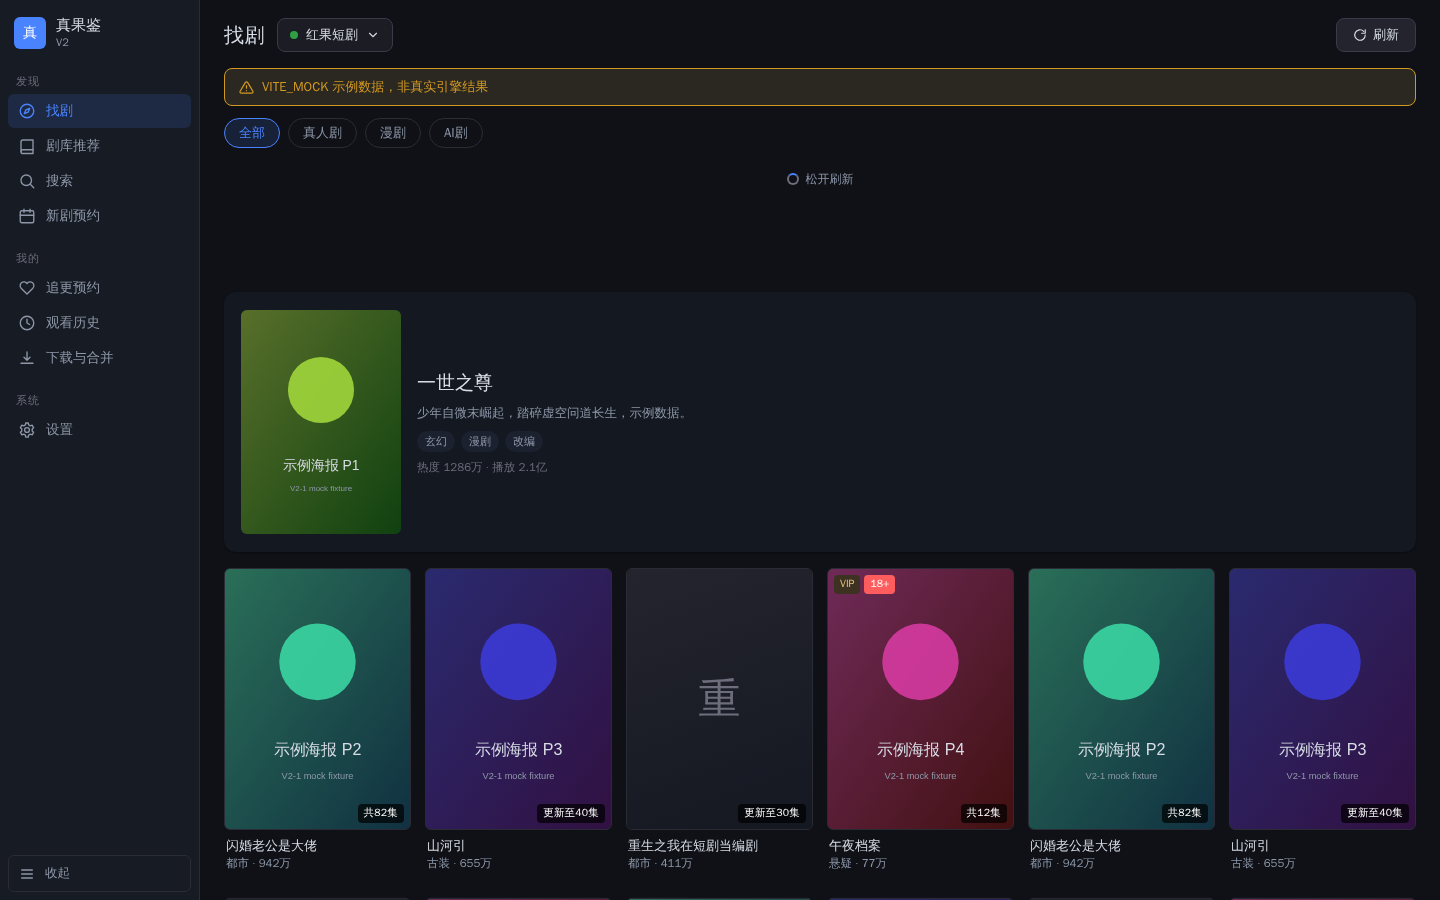
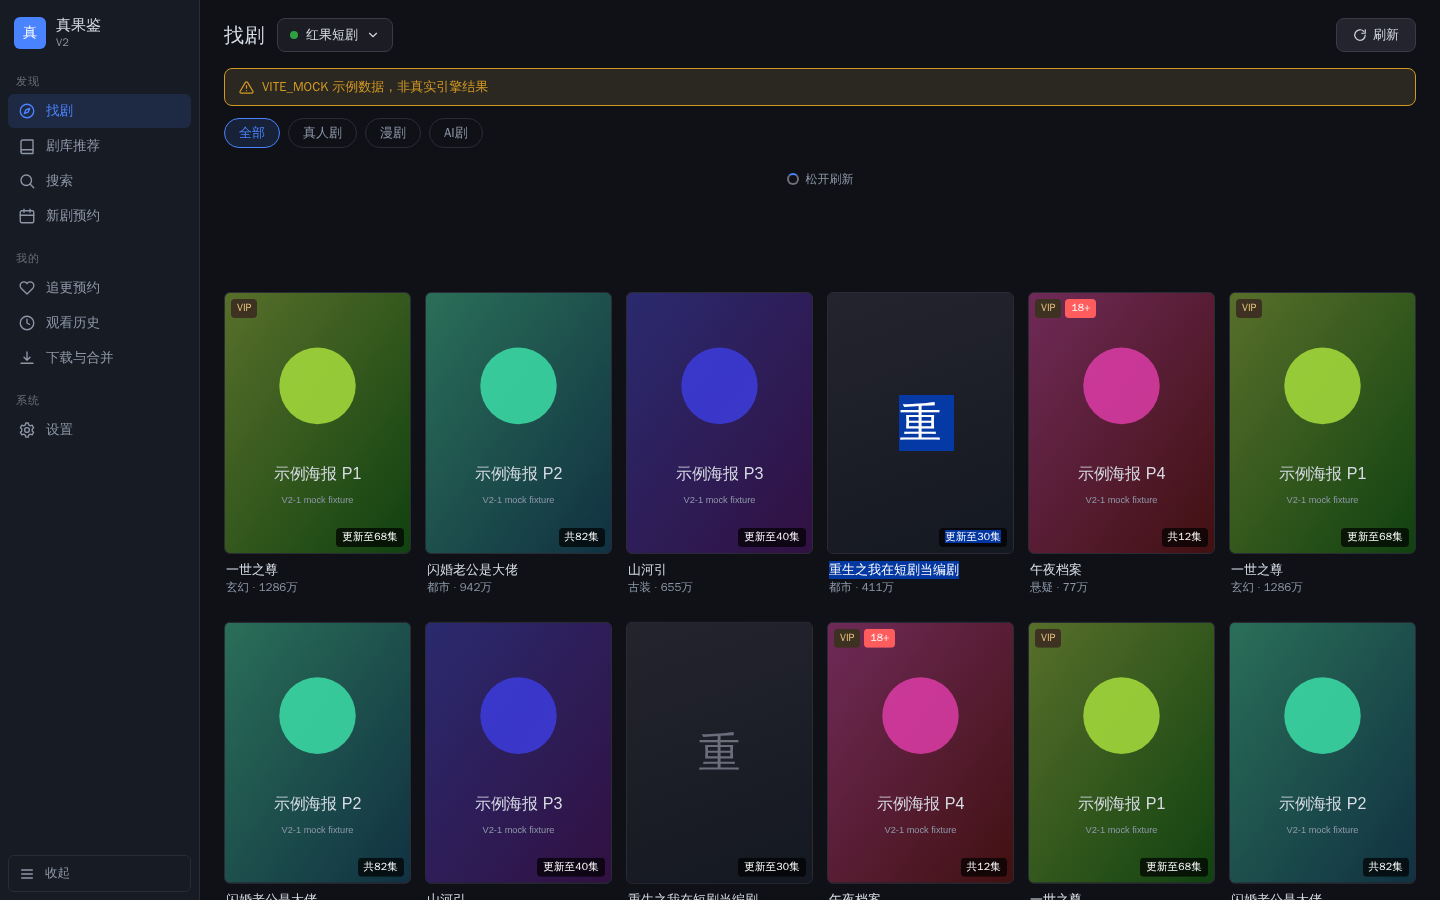
feat(client-v2): 移除找剧页首屏大卡以让出浏览空间
- 用户真机反馈 hero 占位过大，整块下线：墙面从第一部直接铺满，items[0] 不再被摘出
- 保留下拉刷新与集数徽标；验证脚本断言改为无 hero、首卡即列表首位
- HeroCard 组件与页面接线一并删除，虚拟滚动的 hero 偏移逻辑自然退役

diff --git a/client-v2/frontend/src/views/DiscoverView.vue b/client-v2/frontend/src/views/DiscoverView.vue
@@ -1,10 +1,10 @@
 <script setup lang="ts">
-/* Discover —— 找剧：SourceSwitch + 分类 chips + 首屏 hero 大卡 + 虚拟滚动海报墙（catalog 分页，lane=discover）
+/* Discover —— 找剧：SourceSwitch + 分类 chips + 虚拟滚动海报墙（catalog 分页，lane=discover）
    分类来源：browseFilters(groups[key=category])；默认构建无 overlay → 兜底 hongguo 三分类
    （值取自 guoapp-src core/provider_hongguo_catalog.go hongguoAppGenres）。
-   v1 质感对齐：hero 大卡（browse_panel.py:388-394 + poster_wall._WallHero）、下拉刷新手势
-   （browse_panel.py:151 set_refresh_enabled/refreshRequested 的手势版，复用既有 loadFirst(force)）。 */
-import { computed, onBeforeUnmount, onMounted, ref, watch } from 'vue'
+   v1 质感对齐：下拉刷新手势（browse_panel.py:151 set_refresh_enabled/refreshRequested 的
+   手势版，复用既有 loadFirst(force)）。首屏 hero 大卡已按用户反馈移除（占位过大）。 */
+import { onBeforeUnmount, onMounted, ref, watch } from 'vue'
 import { useRouter } from 'vue-router'
 import { useAppStore } from '@/stores/app'
 import { api, DEGRADED, MOCK_MODE } from '@/services/api'
@@ -14,7 +14,6 @@ import { t, tf } from '@/services/i18n'
 import { coverDiagnosticText, coverDiagnostics, onCoverDiagnostics, type CoverDiagnostics } from '@/services/covers'
 import SourceSwitch from '@/components/SourceSwitch.vue'
 import PosterGrid from '@/components/PosterGrid.vue'
-import HeroCard from '@/components/HeroCard.vue'
 
 interface Chip {
   id: string
@@ -93,45 +92,6 @@ const FALLBACK_CHIPS: Chip[] = [
 // 红果 genre 体裁组里的合法芯片 id（其余行如主题/时间不进芯片行）。
 const GENRE_TAB_IDS = new Set(['', 'short_play', 'comic_series', 'ai_series'])
 
-/* ---- hero 大卡（v1 browse_panel.py:388-394：首个分类且 items 非空 → items[0] 上墙剔除、其余进网格） ----
-   - 仅首个分类（chips[0]，兜底即「全部」）出 hero，与 v1 _is_first_tab 同口径；
-     分类页签切走后 v1 也不出 hero
-   - 条数 <2 不出：只有 1 条时 v1 的墙是空的（items[1:]），这里把这一条留作普通卡片，
-     避免「一张大卡压一片空墙」
-   - 去重：网格剔掉 hero 本体——按 id 且按标题剔（翻页同推荐位会重复同标题，
-     v1 真机反馈过「同一部剧出现两次」正是没剔的后果）
-   - 矮窗隐藏：v1 HERO_MIN_H=140 以下让位给墙；这里等价口径 = 网格可视高 < hero 260 + 一行 200 */
-const HERO_H = 260
-const HERO_MIN_ROW = 200
-const gridWrap = ref<HTMLElement | null>(null)
-const heroFits = ref(true)
-
-const isFirstChip = computed(() => activeChip.value === (chips.value[0]?.id ?? ''))
-const heroDrama = computed<Drama | null>(() => {
-  if (!heroFits.value || !isFirstChip.value) return null
-  if (items.value.length < 2) return null
-  return items.value[0]
-})
-const gridItems = computed<Drama[]>(() => {
-  const hero = heroDrama.value
-  if (!hero) return items.value
-  return items.value.filter((d) => d.id !== hero.id && d.title !== hero.title)
-})
-
-function measureHeroFits() {
-  const el = gridWrap.value
-  if (!el) return
-  const h = el.clientHeight
-  if (h > 0) heroFits.value = h >= HERO_H + HERO_MIN_ROW
-}
-// gridWrap 在 v-else 分支里，出现/重建时重新挂观察（RO 首次 observe 即回调，初值不用另测）
-let gridRo: ResizeObserver | null = null
-watch(gridWrap, (el) => {
-  gridRo?.disconnect()
-  gridRo = el ? new ResizeObserver(() => measureHeroFits()) : null
-  if (el && gridRo) gridRo.observe(el)
-  measureHeroFits()
-})
 
 /* ---- mock 验证钩子（沿用 covers.ts:131-136 __zgjCoverFault 的 window 惯例，仅 MOCK_MODE 挂载） ----
    - __zgjDiscover.refreshes：force 刷新次数（下拉手势断言）
@@ -286,8 +246,6 @@ onMounted(async () => {
 onBeforeUnmount(() => {
   unsubCoverDiag?.()
   unsubCoverDiag = undefined
-  gridRo?.disconnect()
-  gridRo = null
 })
 </script>
 
@@ -351,21 +309,16 @@ onBeforeUnmount(() => {
     <div>{{ error }}</div>
     <button class="btn" @click="loadFirst(true)">重试</button>
   </div>
-  <div v-else ref="gridWrap" class="grid-wrap">
+  <div v-else class="grid-wrap">
     <PosterGrid
-      :items="gridItems"
+      :items="items"
       :loading="loading"
       :loading-more="loadingMore"
       refreshable
-      :show-hero="!!heroDrama"
       @load-more="loadMore"
       @refresh="onPullRefresh"
       @select="selectDrama"
-    >
-      <template v-if="heroDrama" #hero>
-        <HeroCard :drama="heroDrama" @select="selectDrama" />
-      </template>
-    </PosterGrid>
+    />
   </div>
 
   <div v-if="toast" class="toast">{{ toast }}</div>
@@ -401,7 +354,7 @@ onBeforeUnmount(() => {
 .state-block {
   flex: 1;
 }
-/* 网格包装：给 .pg-scroller 一个确定高度的父级，同时是 hero「矮窗隐藏」的测量对象 */
+/* 网格包装：给 .pg-scroller 一个确定高度的父级 */
 .grid-wrap {
   flex: 1;
   min-height: 0;

diff --git a/client-v2/frontend/verification/discover_hero_verify.py b/client-v2/frontend/verification/discover_hero_verify.py
@@ -1,16 +1,15 @@
 #!/usr/bin/env python3
 # -*- coding: utf-8 -*-
-"""discover_hero_verify —— 发现页（找剧）v1 质感对齐三项的 mock 端到端验收。
+"""discover_hero_verify —— 发现页（找剧）mock 端到端验收（hero 大卡已按用户反馈移除）。
 
-对齐的 v1 语义：
-  - hero 大卡：browse_panel.py:388-394（首个分类 items[0] 上墙剔除、其余进网格）
-                + poster_wall.py:307-427 _WallHero（高 260、常态不描边、hover accent、点击进详情）
+覆盖语义：
+  - 无 hero：墙面从 items[0] 直接开始（v1 _WallHero 对应物已下线，用户嫌占位过大）
   - 下拉刷新：browse_panel.py:151（wall.set_refresh_enabled + refreshRequested → panel._refresh）
   - 集数徽标：poster_wall.py:52-69 _badge_text（集数优先）+ browse_panel.py:149 双徽标（VIP + 集数）
 
 断言：
-  A1 hero 渲染（260 高）+ hero=catalog items[0] + 网格不含 hero 同题
-  A2 hero 点击 → 详情路由
+  A1 hero 节点不存在 + items[0] 直接进网格 + 墙顶贴齐（无 hero 占位）
+  A2 首卡点击 → 详情路由
   A3 顶部下拉超阈值 → 触发既有强刷新（window.__zgjDiscover.refreshes 计数 +1）+ 指示文案切换
   A4 网格卡片集数徽标与 fixture 一致（期望值在页面内 import 同一份 fixtures 重算，非同段代码复制）
   A5 注入空数据 / 单条数据不崩（无 pageerror、状态正确）
@@ -147,33 +146,18 @@ async def main():
             for d in expected:
                 exp_by_title.setdefault(d["title"], d["badge"])
 
-            # ---------------- A1 hero 渲染 + 网格去重 ----------------
+            # ---------------- A1 无 hero + 全量进网格 ----------------
             hero = page.locator('[data-testid="poster-hero"]')
-            hero_visible = await hero.count() == 1 and await hero.first.is_visible()
-            box = await hero.first.bounding_box() if hero_visible else None
-            hero_title = ""
-            if hero_visible:
-                hero_title = (await hero.locator(".hero-title").first.inner_text()).strip()
-            hero_title_h = await hero.locator(".hero-title").first.bounding_box() if hero_visible else None
+            hero_nodes = await hero.count()
             cards = await page.evaluate(CARDS_JS)
             grid_titles = [c["title"] for c in cards]
-            check(
-                "A1 hero 大卡渲染（固定 260 高，v1 HERO_H）",
-                hero_visible and box and 258 <= box["height"] <= 262,
-                f"h={box and round(box['height'], 1)} title={hero_title!r}",
-            )
-            check("A1 hero = catalog items[0]", hero_title == first_title, f"hero={hero_title!r} items[0]={first_title!r}")
-            check(
-                "A1 网格剔除 hero 同题（v1 items[0] 上墙剔除 + 同标题重复位去重）",
-                hero_title != "" and grid_titles.count(hero_title) == 0,
-                f"网格 {len(grid_titles)} 张里 {hero_title!r} 出现 {grid_titles.count(hero_title)} 次",
-            )
-            check("A1 网格非空（hero 之外仍有内容）", len(cards) > 0, f"cards={len(cards)}")
-            check(
-                "A1 hero 版式：封面槽 160 宽 + 标题在右",
-                bool(hero_title_h) and hero_title_h["x"] > box["x"] + 150,
-                f"titleX=+{hero_title_h and round(hero_title_h['x'] - box['x'], 1)}px",
-            )
+            check("A1 hero 大卡已移除（页面无 hero 节点）", hero_nodes == 0, f"hero_nodes={hero_nodes}")
+            check("A1 items[0] 直接进网格（不再上墙剔除）", first_title != "" and grid_titles and grid_titles[0] == first_title, f"grid[0]={grid_titles[:1]} items[0]={first_title!r}")
+            check("A1 网格非空", len(cards) > 0, f"cards={len(cards)}")
+            vptop = await page.evaluate(
+                "() => { const vp = document.querySelector('.pg-viewport');"
+                "  return vp ? vp.offsetTop : -1; }")
+            check("A1 墙顶贴齐（contentTop 无 hero 占位，≤8px）", 0 <= vptop <= 8, f"offsetTop={vptop}")
 
             # ---------------- A4 集数徽标 ----------------
             mismatch = [
@@ -244,42 +228,40 @@ async def main():
             await page.wait_for_timeout(900)
             cards_after = await page.evaluate(CARDS_JS)
             check(
-                "A3 刷新后回弹并原位复现 hero/网格（未闪成空墙）",
-                await hero.count() == 1 and len(cards_after) > 0,
-                f"cards={len(cards_after)}",
+                "A3 刷新后回弹并原位复现网格（未闪成空墙）",
+                len(cards_after) > 0 and cards_after[0]["title"] == first_title,
+                f"cards={len(cards_after)} first={cards_after[:1] and cards_after[0]['title']!r}",
             )
 
             # ---------------- A5 空 / 单条 ----------------
             await page.evaluate("() => { window.__zgjDiscoverInjectCatalog = 'empty' }")
             await force_refresh(page)
             empty_nodes = await page.locator(".pg-empty").count()
-            hero_nodes = await page.locator('[data-testid="poster-hero"]').count()
             await page.screenshot(path=SHOT_EMPTY)
             check(
-                "A5 空数据不崩（空态在位、hero 不出、无 pageerror）",
-                empty_nodes == 1 and hero_nodes == 0 and not errors,
-                f"empty={empty_nodes} hero={hero_nodes} errors={len(errors)}",
+                "A5 空数据不崩（空态在位、无 pageerror）",
+                empty_nodes == 1 and not errors,
+                f"empty={empty_nodes} errors={len(errors)}",
             )
 
             await page.evaluate("() => { window.__zgjDiscoverInjectCatalog = 'single' }")
             await force_refresh(page)
             single = await page.evaluate(CARDS_JS)
-            hero_nodes = await page.locator('[data-testid="poster-hero"]').count()
             check(
-                "A5 单条数据不崩（1 张普通卡、hero 让位、徽标照常）",
-                len(single) == 1 and hero_nodes == 0 and bool(single[0]["badge"]),
-                f"cards={len(single)} hero={hero_nodes} 例={single[:1]}",
+                "A5 单条数据不崩（1 张普通卡、徽标照常）",
+                len(single) == 1 and bool(single[0]["badge"]),
+                f"cards={len(single)} 例={single[:1]}",
             )
 
             await page.evaluate("() => { delete window.__zgjDiscoverInjectCatalog }")
             await force_refresh(page)
 
-            # ---------------- A2 hero 点击进详情 ----------------
+            # ---------------- A2 首卡点击进详情 ----------------
             await page.screenshot(path=SHOT)
-            await hero.first.click()
+            await page.locator(".pg-viewport .poster").first.click()
             await page.wait_for_timeout(900)
             url = page.url
-            check("A2 hero 点击 → 详情路由", "detail" in url, url)
+            check("A2 首卡点击 → 详情路由", "detail" in url, url)
 
             await browser.close()
     finally:
